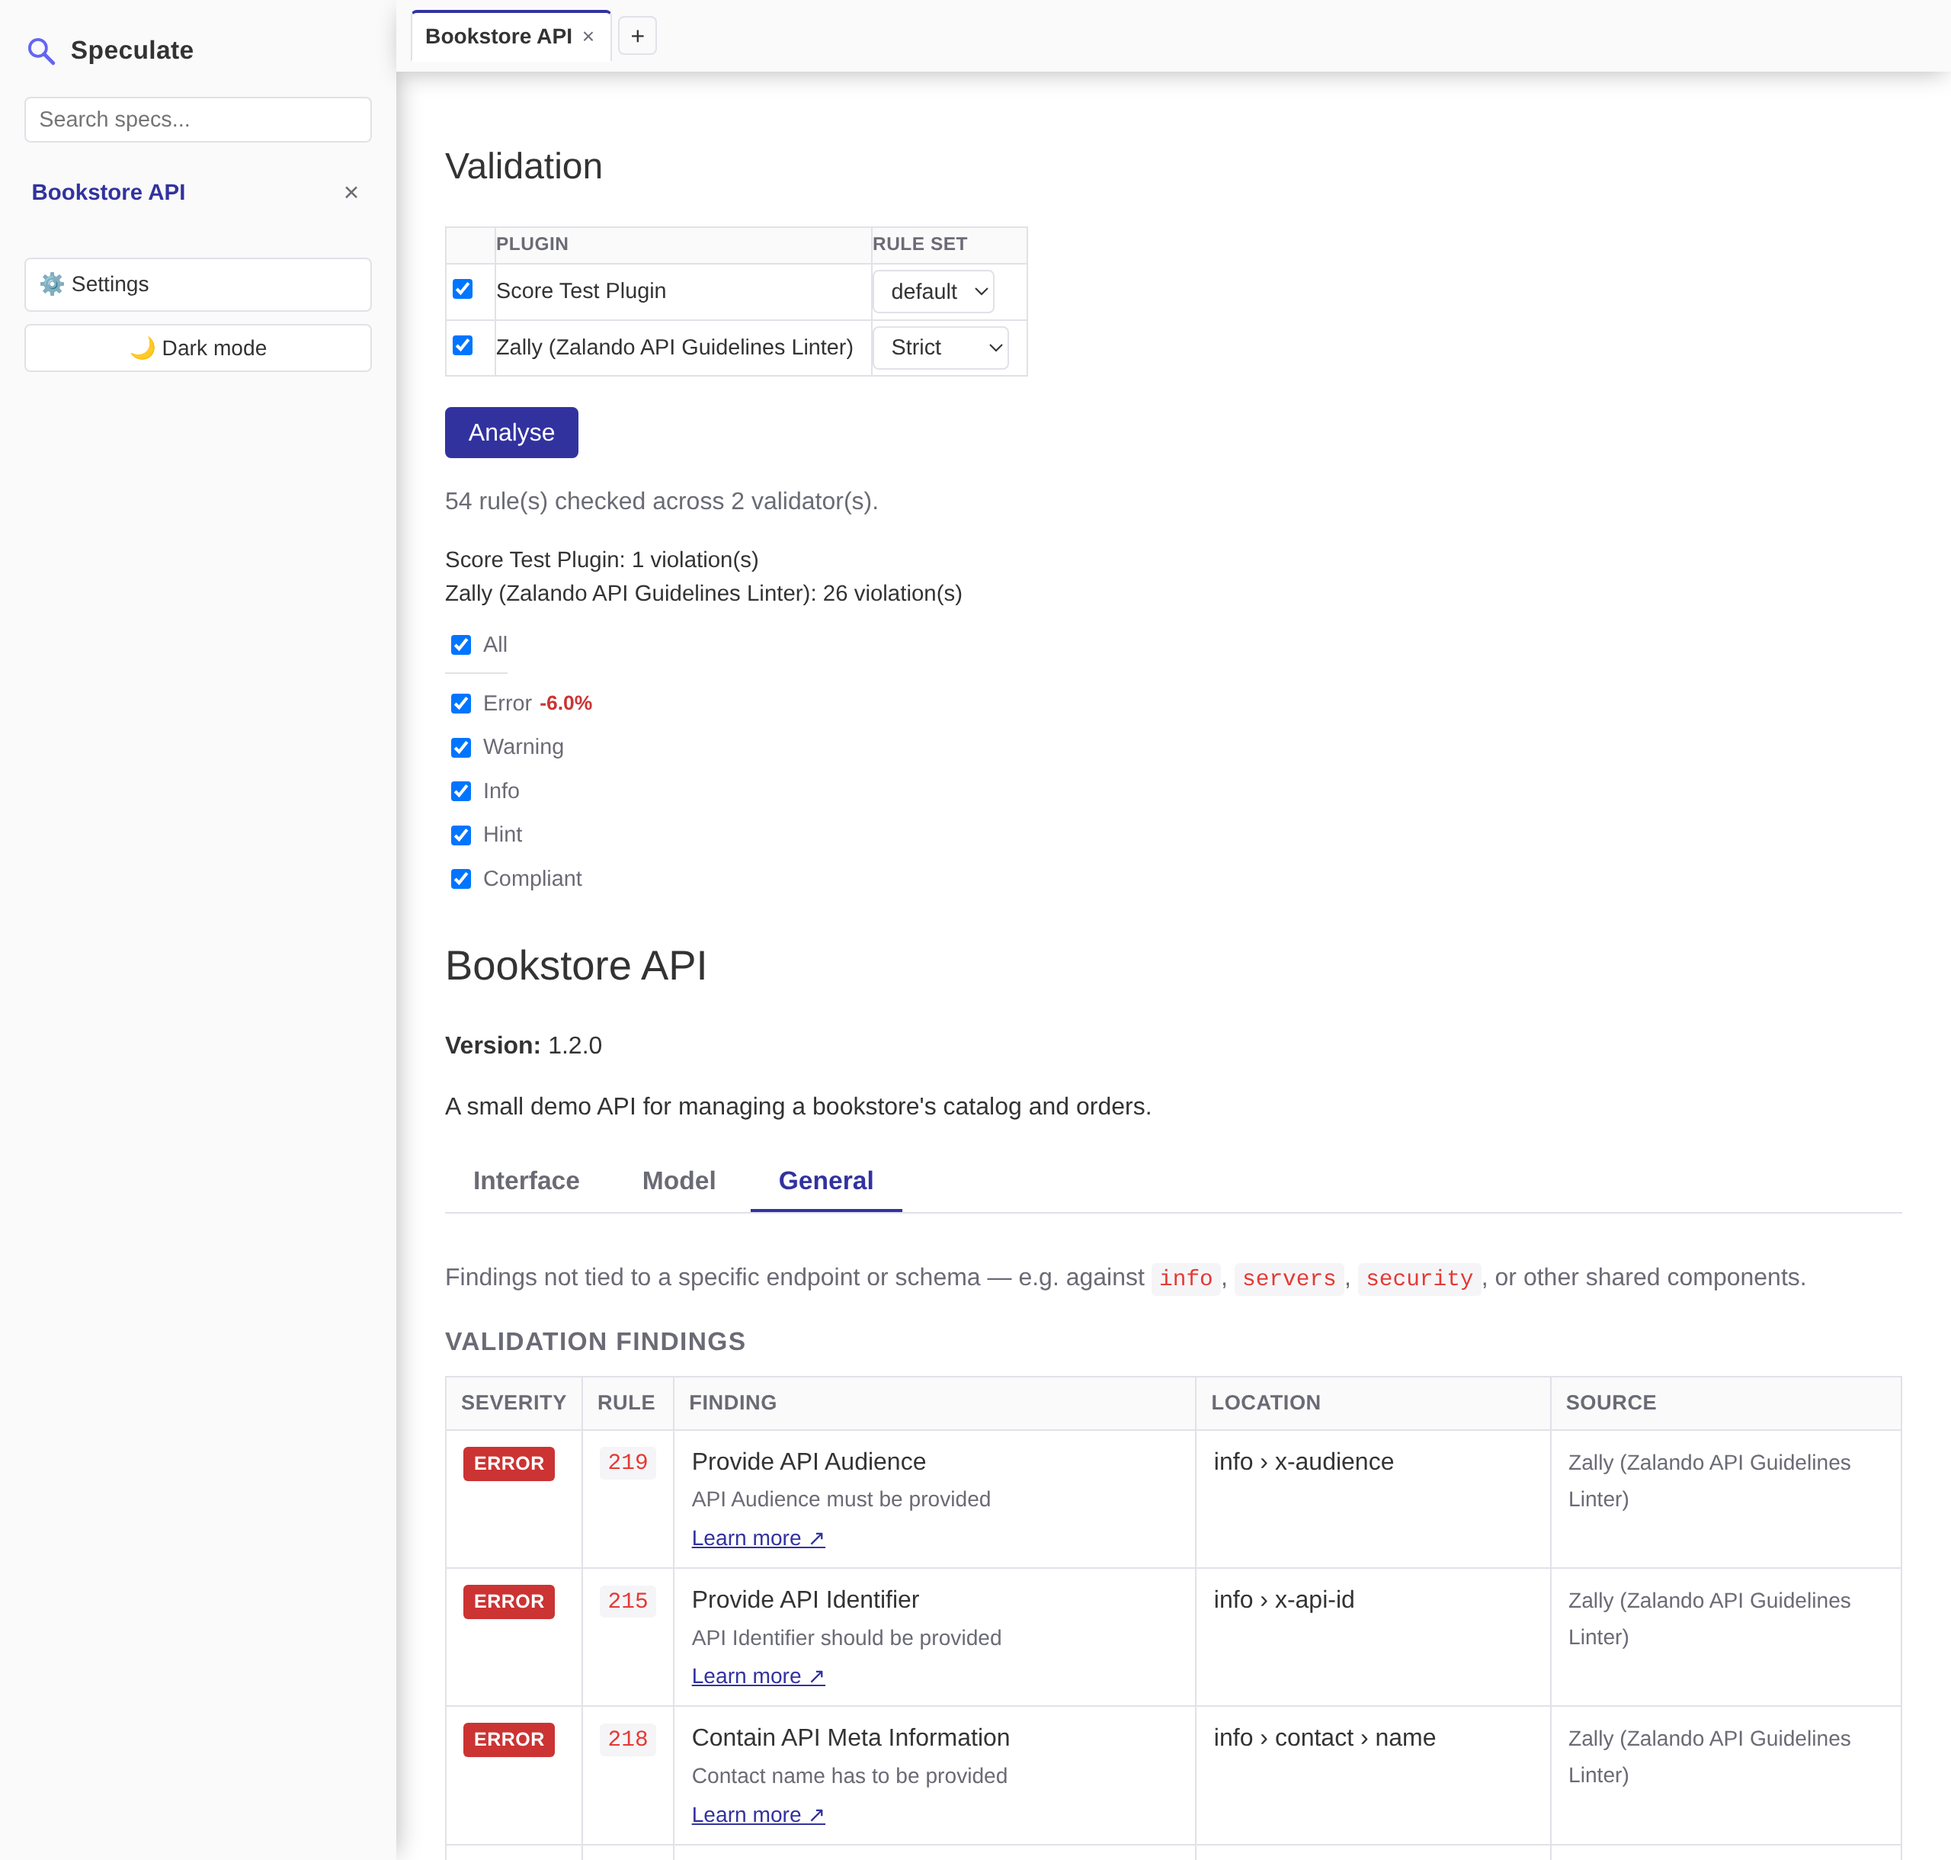
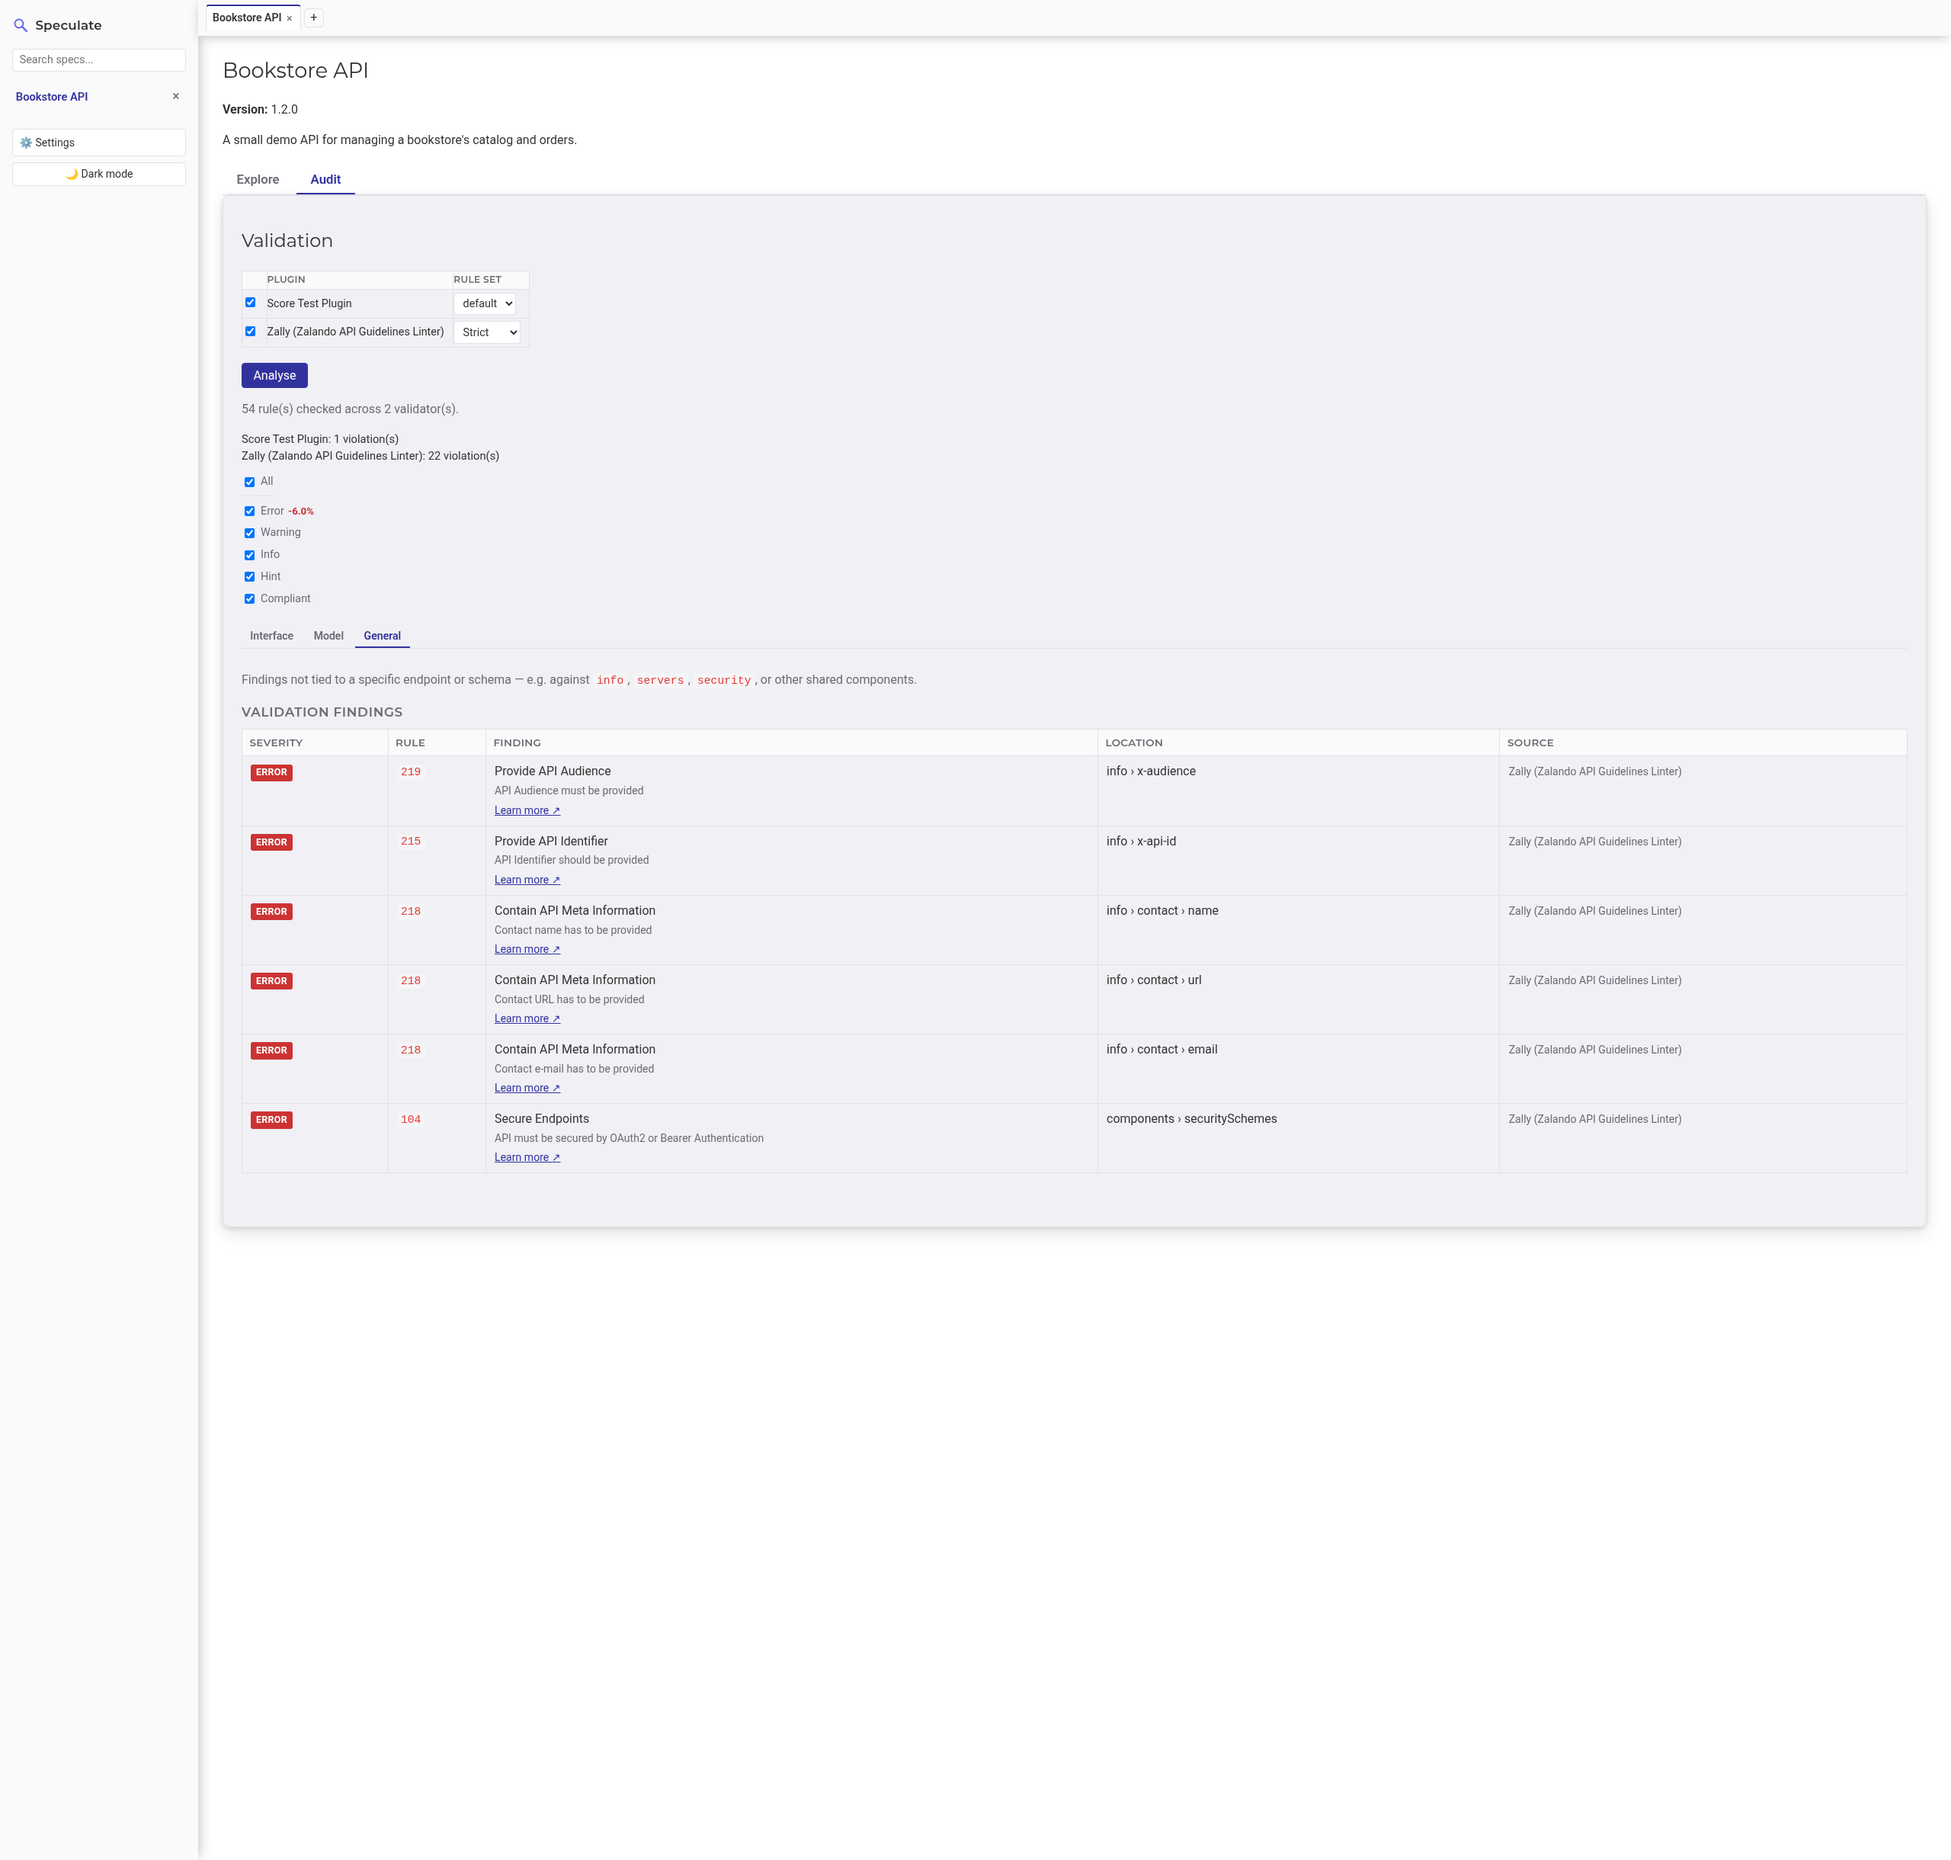
Give the Explore/Audit tab panels a shaded box, refresh docs screenshots
Each panel now sits in a bordered, shadowed surface-alt box instead of
blending straight into the page background, making the tab content read
as a distinct card. Recaptured all four affected docs screenshots
against the new Explore/Audit layout and updated their captions to
describe which tab each one is showing.

diff --git a/docs/index.html b/docs/index.html
@@ -62,17 +62,17 @@
   <section id="screenshot">
     <h2>What it looks like</h2>
 
-    <p class="lede">Endpoints grouped by tag, with parameters and a worked example for each.</p>
-    <img class="screenshot" src="screenshot.png" alt="Speculate showing the Interface tab of a sample Bookstore API, with a GET /books endpoint expanded showing its parameters">
+    <p class="lede">An Explore tab shows endpoints grouped by tag, with parameters and a worked example for each — clean, with no validation clutter, whether or not the spec has been analysed.</p>
+    <img class="screenshot" src="screenshot.png" alt="Speculate showing the Explore tab's Interface view for a sample Bookstore API, with a GET /books endpoint expanded showing its parameters">
 
-    <p class="lede" style="margin-top: 2.2rem;">Schemas, request bodies, and responses live in their own Model tab — sub-tabbed the same way — so validation findings against your data model show up next to the shape they're about, not mixed in with the endpoints.</p>
-    <img class="screenshot" src="screenshot-model.png" alt="Speculate's Model tab showing a Book schema with validation findings and its property tree">
+    <p class="lede" style="margin-top: 2.2rem;">A separate Audit tab holds the validator picker and results, with schemas, request bodies, and responses in their own Model sub-tab — so validation findings against your data model show up next to the shape they're about, not mixed in with the endpoints.</p>
+    <img class="screenshot" src="screenshot-model.png" alt="Speculate's Audit tab, Model sub-tab, showing a Book schema with validation findings and its property tree">
 
     <p class="lede" style="margin-top: 2.2rem;">Check off which plugins to run and pick each one's rule set, click Analyse, and findings from all of them appear merged as badges on exactly the endpoint or schema they apply to — filter by severity, in the plugin's own vocabulary, down to just what needs attention.</p>
-    <img class="screenshot" src="screenshot-validation.png" alt="Speculate's validation picker with two plugins checked and their rule sets selected, a severity filter showing a score impact percentage, and a GET /books endpoint showing its merged findings">
+    <img class="screenshot" src="screenshot-validation.png" alt="Speculate's Audit tab with two plugins checked and their rule sets selected, a severity filter showing a score impact percentage, and a GET /books endpoint showing its merged findings">
 
-    <p class="lede" style="margin-top: 2.2rem;">Findings that aren't about any one endpoint or schema — missing API metadata, contact info, and the like — land in their own General tab instead of getting dropped.</p>
-    <img class="screenshot" src="screenshot-general.png" alt="Speculate's General tab listing validation findings against the spec's info block, not tied to any specific endpoint">
+    <p class="lede" style="margin-top: 2.2rem;">Findings that aren't about any one endpoint or schema — missing API metadata, contact info, and the like — land in their own General sub-tab instead of getting dropped.</p>
+    <img class="screenshot" src="screenshot-general.png" alt="Speculate's Audit tab, General sub-tab, listing validation findings against the spec's info block, not tied to any specific endpoint">
 
     <p class="lede" style="margin-top: 2.2rem;">Toggle any plugin off globally from Settings — it stays loaded but sits out of every spec's picker until switched back on.</p>
     <img class="screenshot" src="screenshot-settings.png" alt="Speculate's Settings page listing the Zally validator plugin with its id and an Enabled status">

diff --git a/speculate-app/src/main/resources/static/css/app.css b/speculate-app/src/main/resources/static/css/app.css
@@ -308,6 +308,14 @@ table.endpoint-findings { width: 100%; }
 .top-level-tabset { margin-top: 1.25em; }
 .top-level-tabset > .tabset-nav .tab-btn { font-size: 1.05em; padding: 0.5em 1.1em; }
 
+.explore-audit-tabset > .tabset-panels > .tab-panel {
+    background: var(--surface-alt);
+    border: 1px solid var(--border);
+    border-radius: 8px;
+    box-shadow: var(--shadow-card);
+    padding: 1.25em 1.5em;
+}
+
 /* The shared spec-body fragment is analysis-agnostic — it always emits
    finding badges/tables and data-has-findings attributes. The Explore
    instance's container carries data-view-mode="viewer", which is what
